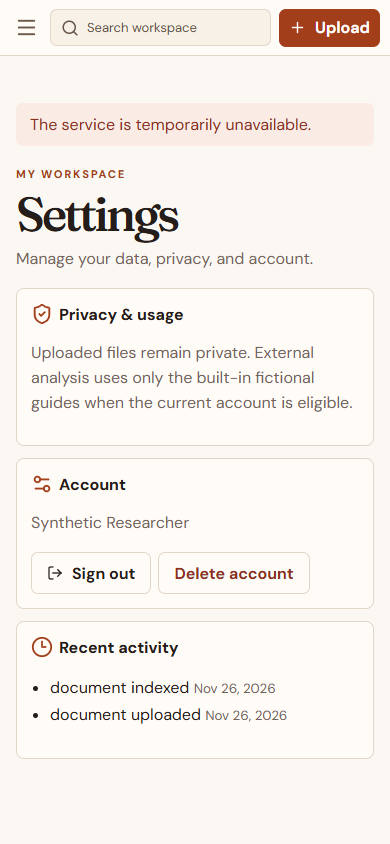
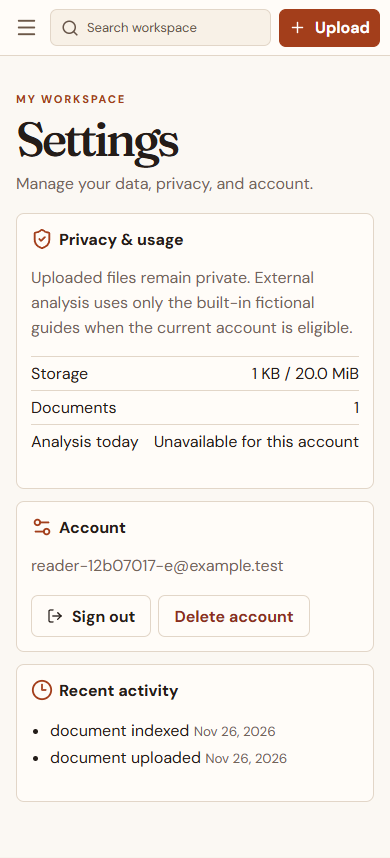
Fix workspace usage counts and add regression coverage

diff --git a/tests/integration/postgres.test.ts b/tests/integration/postgres.test.ts
@@ -5,7 +5,7 @@ import { beforeAll,afterAll,describe,expect,it } from "vitest";
 import { database,transaction } from "@/server/db/pool";
 import { prepareWorkspace } from "@/server/db/http";
 import { getDocument,removeDocument,updateDocument,upload } from "@/server/documents/service";
-import { bookmark,catalog,getChunks,download,records,deleteAccount } from "@/server/documents/workspace";
+import { bookmark,catalog,getChunks,download,records,deleteAccount,workspaceStats } from "@/server/documents/workspace";
 import { reserve } from "@/server/quotas/usage";
 import { search,searchQuery } from "@/server/search/service";
 
@@ -52,6 +52,10 @@ describe("PostgreSQL schema and isolation",()=>{
     expect((await anyDoc(a,primary)).rowCount).toBe(1);
     expect((await anyDoc(b,primary)).rowCount).toBe(0);
     expect((await database().query("SELECT id FROM documents WHERE id=$1",[primary])).rowCount).toBe(0);
+  });
+  it("reports document storage and usage for each workspace",async()=>{
+    expect(await workspaceStats(a)).toMatchObject({documents:1,ai_today:0});
+    expect(await workspaceStats(b)).toMatchObject({documents:0,bytes:0,ai_today:0});
   });
   it("verifies policies, physical text indexes and both applied checksums",async()=>{
     const admin=new pg.Client({connectionString:testUrl});

diff --git a/src/server/documents/workspace.ts b/src/server/documents/workspace.ts
@@ -116,7 +116,7 @@ export async function workspaceStats(workspace:string) {
   return transaction(async db => {
     const result = await db.query(`SELECT (SELECT count(*)::int FROM documents WHERE workspace_id=$1) AS documents,
       (SELECT coalesce(sum(size),0)::int FROM documents WHERE workspace_id=$1) AS bytes,
-      (SELECT coalesce(max(count),0)::int FROM usage_buckets WHERE scope_key=$1 AND kind='ai' AND period_start=date_trunc('day',now(),'UTC')) AS ai_today`,[workspace]);
+      (SELECT coalesce(max(count),0)::int FROM usage_buckets WHERE scope_key=$1::uuid::text AND kind='ai' AND period_start=date_trunc('day',now(),'UTC')) AS ai_today`,[workspace]);
     return result.rows[0];
   },workspace);
 }

diff --git a/src/server/db/http.ts b/src/server/db/http.ts
@@ -18,6 +18,10 @@ export async function route(run: () => Promise<Response>) {
     const pg = error as { code?: string };
     if (pg?.code === "23505") failure = new HttpError(409,"CONFLICT","This item already exists.");
     if (pg?.code === "23503") failure = notFound();
+    if (failure.status===503 && !(error instanceof HttpError)) {
+      const sqlState=typeof pg?.code==="string" && /^[0-9A-Z]{5}$/.test(pg.code) ? pg.code : undefined;
+      console.warn("docmivo.request.unavailable", { sqlState });
+    }
     return Response.json({ error: { code: failure.code, message: failure.message }, requestId: randomUUID() }, { status: failure.status, headers });
   }
 }

diff --git a/tests/e2e/workspace.spec.ts b/tests/e2e/workspace.spec.ts
@@ -126,6 +126,8 @@ test("keyboard upload, exact source, bookmark, notes, and refresh from desktop a
   await expect(page.getByRole("navigation",{name:"Workspace navigation"})).toBeVisible();
   await page.getByRole("button",{name:"Settings",exact:true}).click();
   await expect(page.getByRole("heading",{name:"Privacy & usage"})).toBeVisible();
+  await expect(page.getByText(/1 KB \/ 20.0 MiB/)).toBeVisible();
+  expect((await page.request.get("/api/usage")).status()).toBe(200);
   await screenshot(page,"settings-390");
   expect((await removeAccount(page.request)).status()).toBe(200);
   await page.reload();

diff --git a/PROGRESS.md b/PROGRESS.md
@@ -27,3 +27,8 @@ Status: PRE-DEVELOPMENT ONLY. Brand Docmivo; final palette warm ivory/copper/esp
 - Passed `npm run lint`, `npm run typecheck`, `npm run build`, 99 unit tests, 33 disposable PostgreSQL integration tests, and 13 Edge/Chromium Playwright scenarios using the production build. Two axe scans reported zero violations in the tested scopes. The landing layout passed at 360, 390, 768, 1280, 1440, and 1920 pixels. Visually inspected representative desktop and mobile PNGs in `artifacts/visual-qa/`.
 - Measured 10.26 ms p50 and 12.43 ms p95 for 50 sequential warm authenticated HTTP keyword requests after five warmups. The local production build used 5,200 synthetic passages across 52 files and PostgreSQL 17. The database plan used GIN for the selective passage query. See `artifacts/benchmark.json`.
 - On the dedicated Neon database, verified all four migration records, 15 forced-RLS tables, all three expected GIN indexes, and the restricted pooled runtime role. Verified the Vercel scope is Hobby and the Neon resource uses Free. Synthetic hosted accounts were created in preparation for isolated verification.
+
+## 2026-11-26 · M6 hosted rollout checkpoint
+
+- Published the audited source and deployed Git commit `f3abd92` to Vercel. GitHub Actions passed for that commit. Hosted checks confirmed HTTPS health, sign-in, PDF and DOCX indexing, and a real Gemini answer whose citation and expected weekday were present.
+- The first hosted walkthrough found a UUID/text parameter conflict in Settings and usage counts. Corrected the query and added PostgreSQL and browser regressions. Reran the production build and passed 34 PostgreSQL integration tests and 13 browser scenarios. The repeat benchmark measured 9.45 ms p50 and 11.08 ms p95. Final production rollout and hosted acceptance verification follow.
